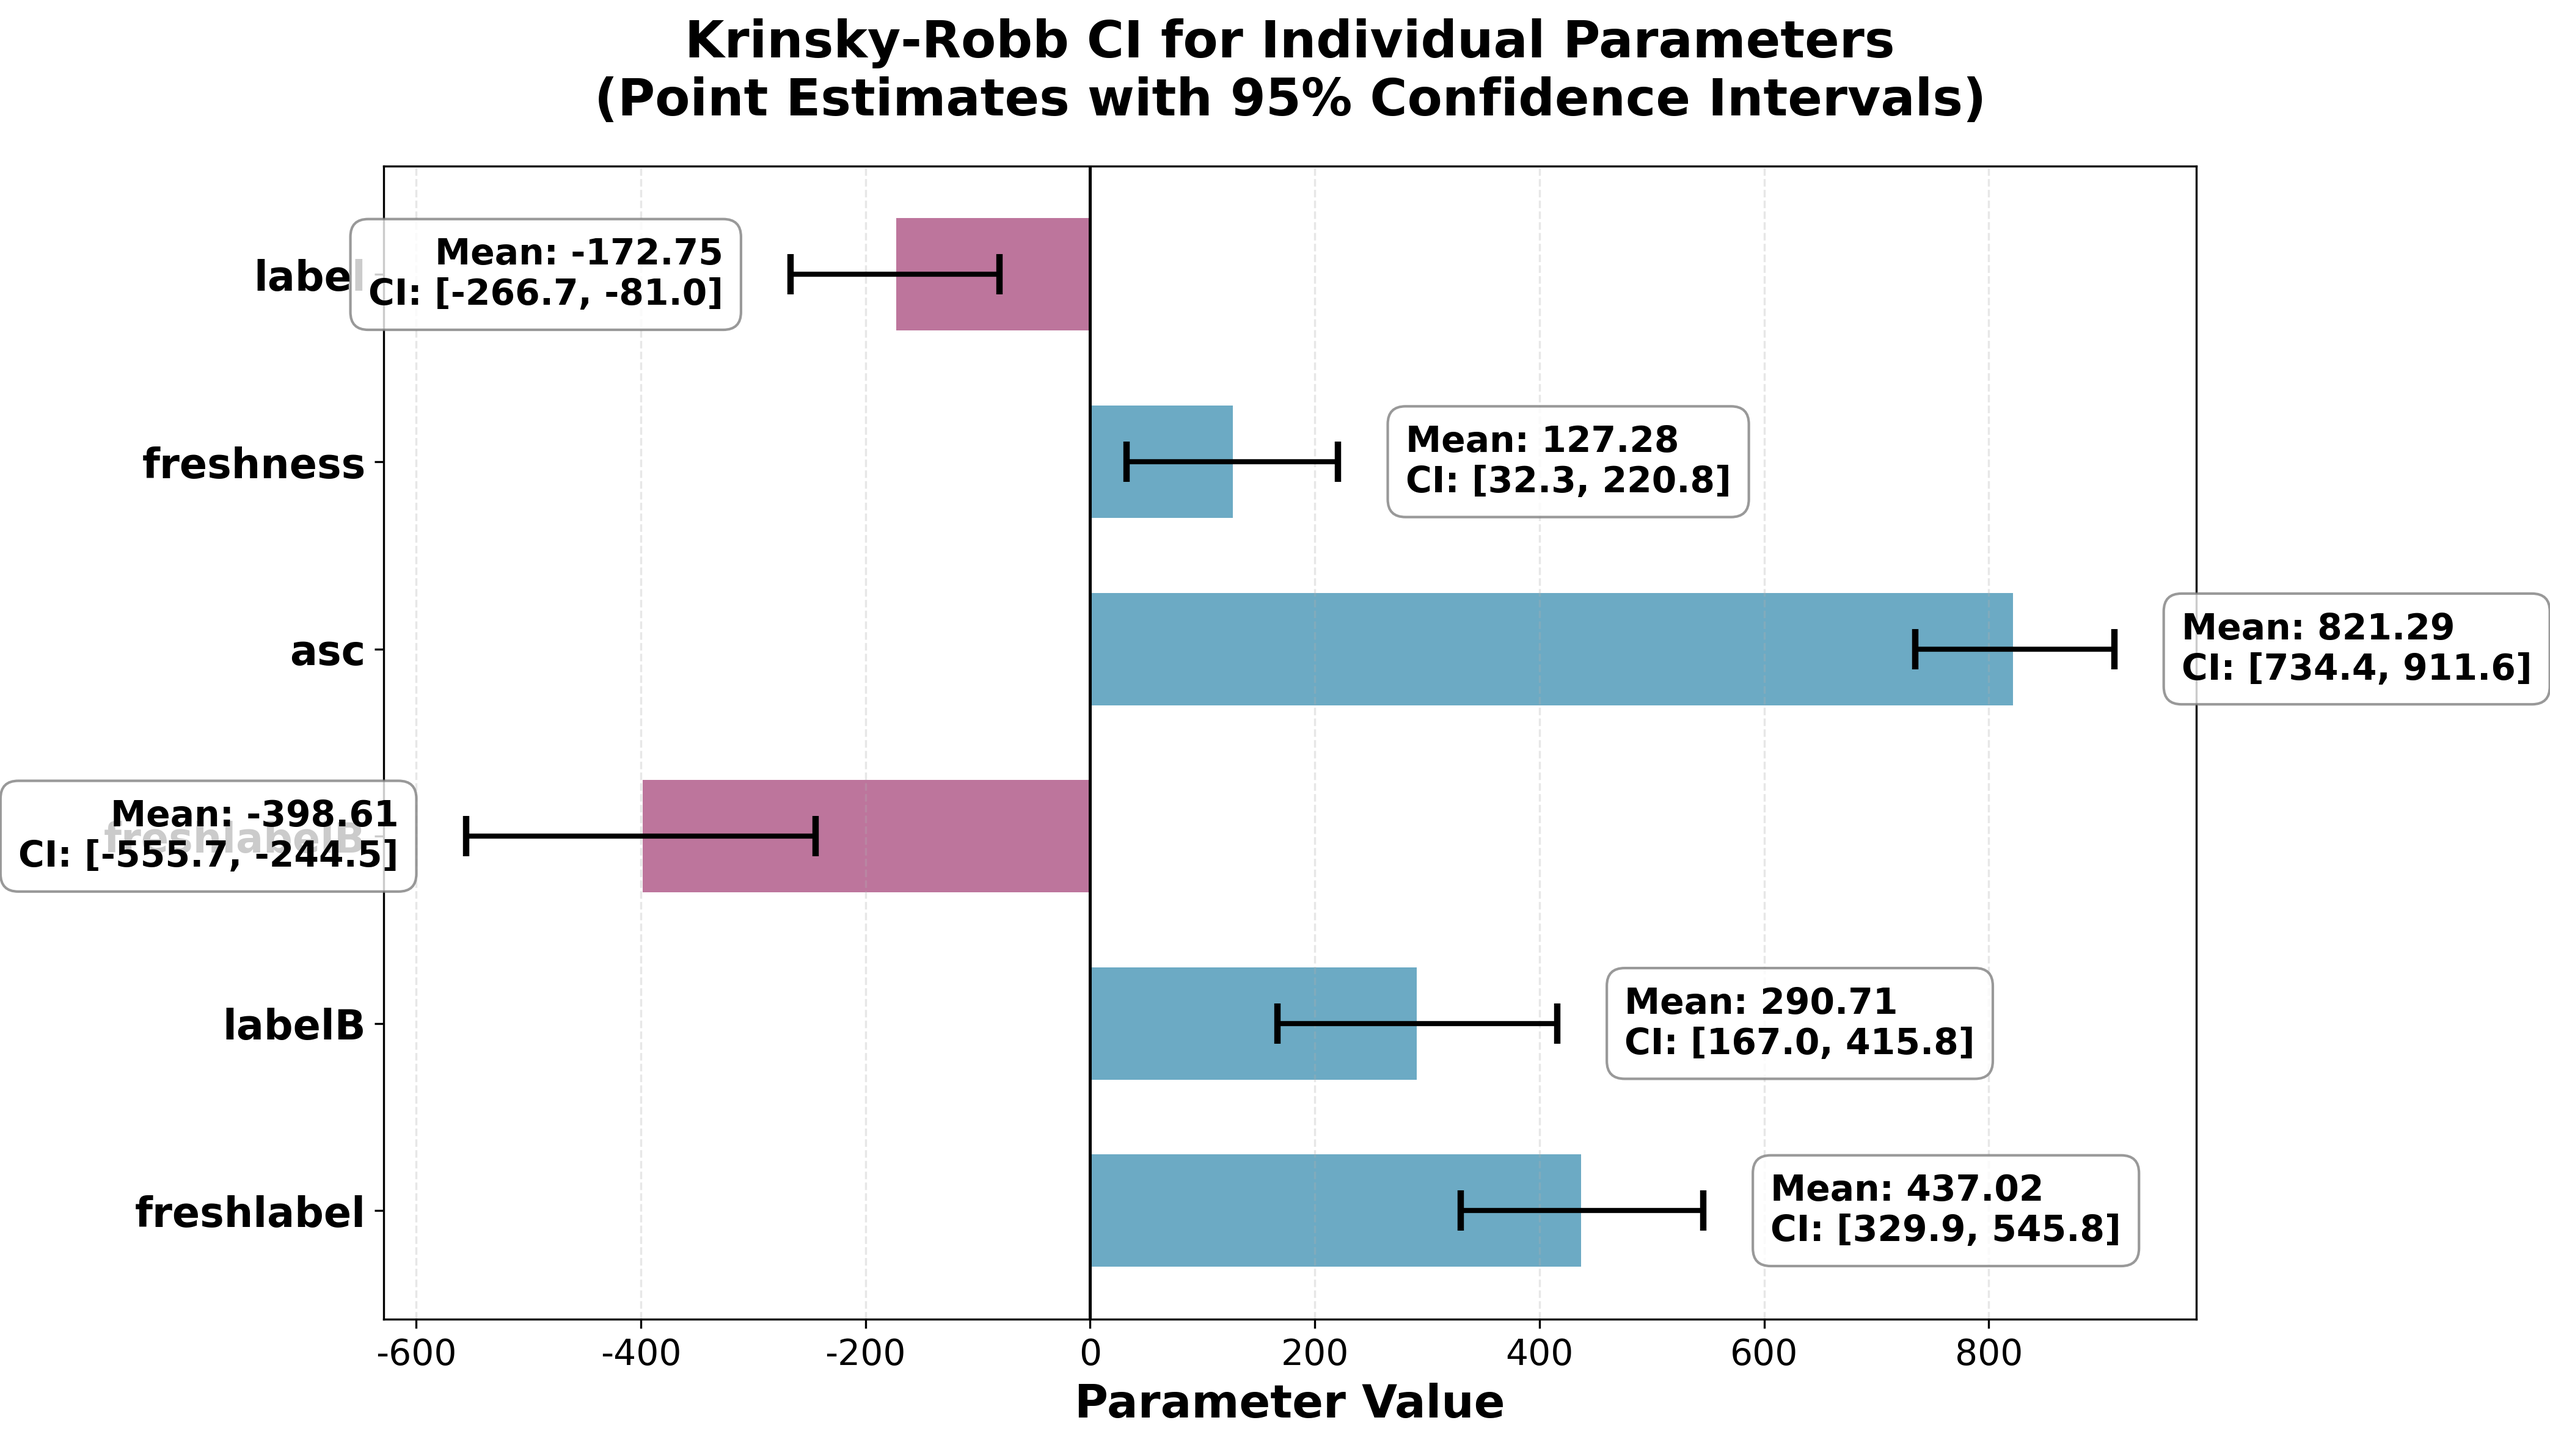
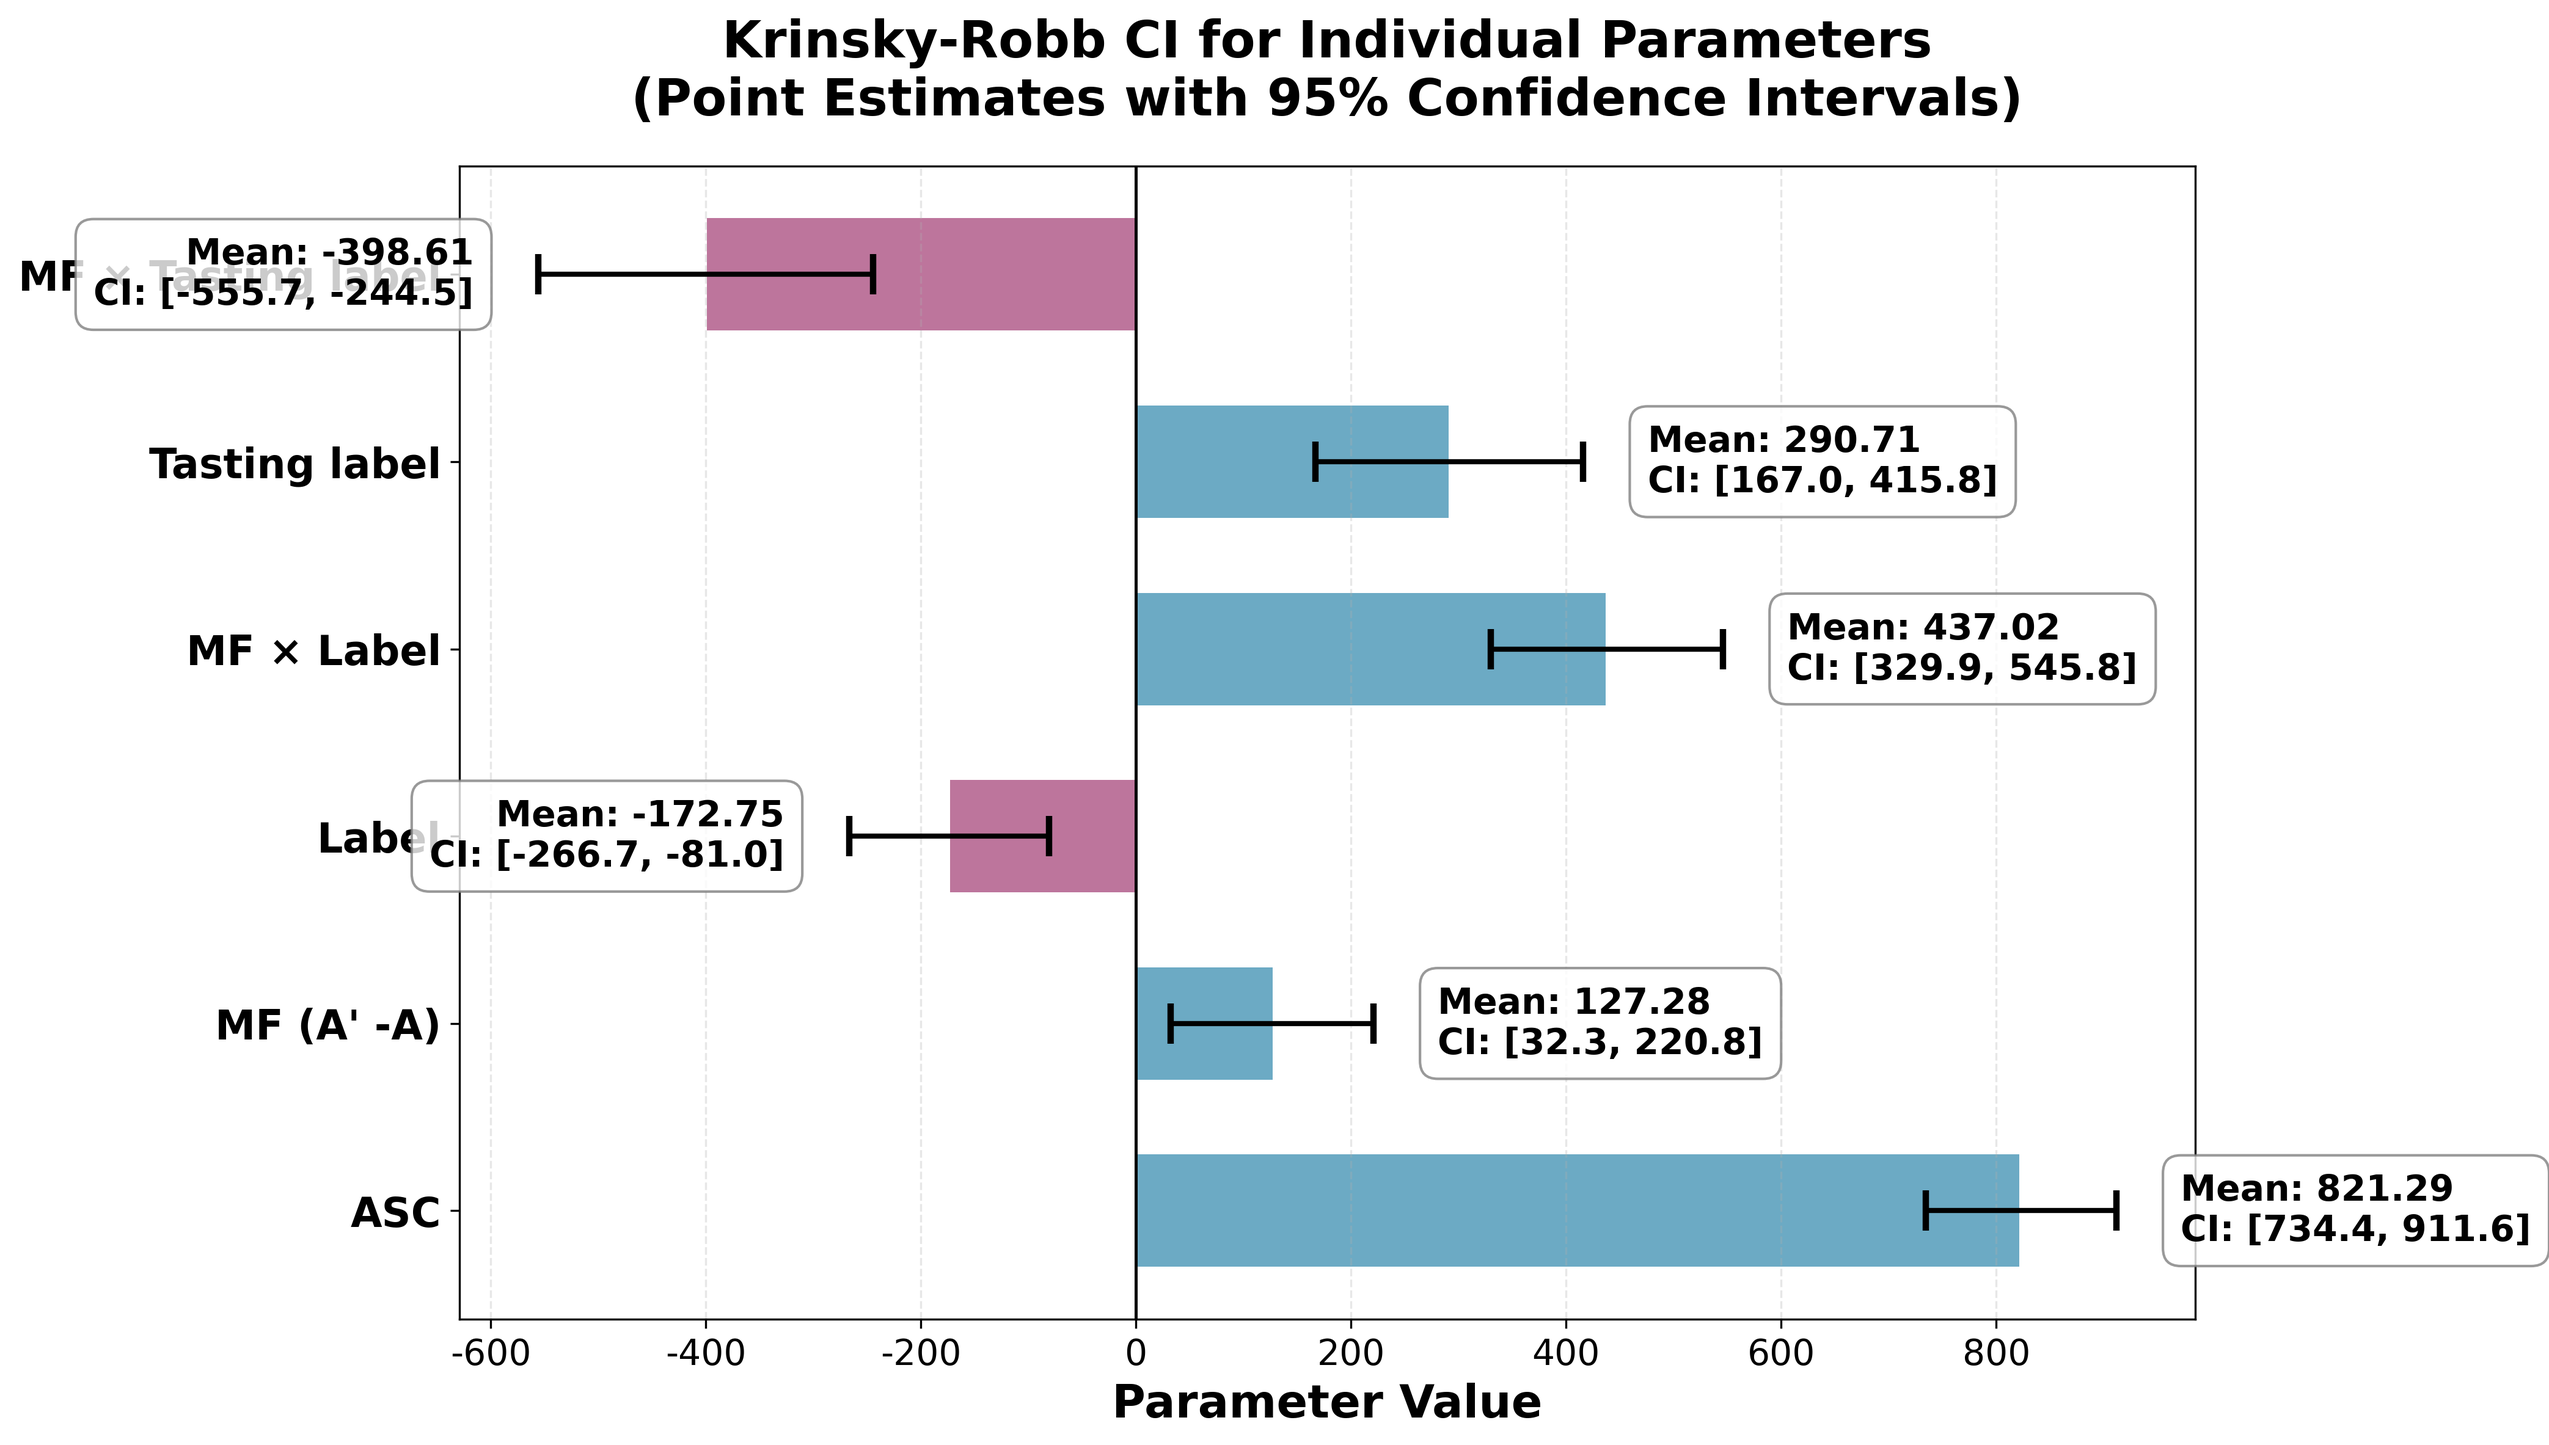
Update parameter names and order in Krinsky-Robb CI plots
Change parameter names to match new specification:
- ASC, MF (A' -A), Label, MF × Label, Tasting label, MF × Tasting label
- Reorder to match the new sequence provided
- Values and confidence intervals remain the same

diff --git a/plot_kr_ci.py b/plot_kr_ci.py
@@ -10,10 +10,10 @@ plt.rcParams['font.sans-serif'] = ['DejaVu Sans', 'Noto Sans CJK JP', 'IPAexGoth
 plt.rcParams['axes.unicode_minus'] = False
 
 # Data from Krinsky-Robb CI results
-parameters = ['freshlabel', 'labelB', 'freshlabelB', 'asc', 'freshness', 'label']
-point_estimates = [437.024, 290.707, -398.607, 821.295, 127.283, -172.753]
-ci_lower = [329.937, 166.988, -555.682, 734.414, 32.294, -266.700]
-ci_upper = [545.796, 415.801, -244.501, 911.571, 220.769, -80.971]
+parameters = ['ASC', "MF (A' -A)", 'Label', 'MF × Label', 'Tasting label', 'MF × Tasting label']
+point_estimates = [821.295, 127.283, -172.753, 437.024, 290.707, -398.607]
+ci_lower = [734.414, 32.294, -266.700, 329.937, 166.988, -555.682]
+ci_upper = [911.571, 220.769, -80.971, 545.796, 415.801, -244.501]
 
 # Calculate error bars (distance from point estimate to CI bounds)
 lower_errors = [pe - cl for pe, cl in zip(point_estimates, ci_lower)]
